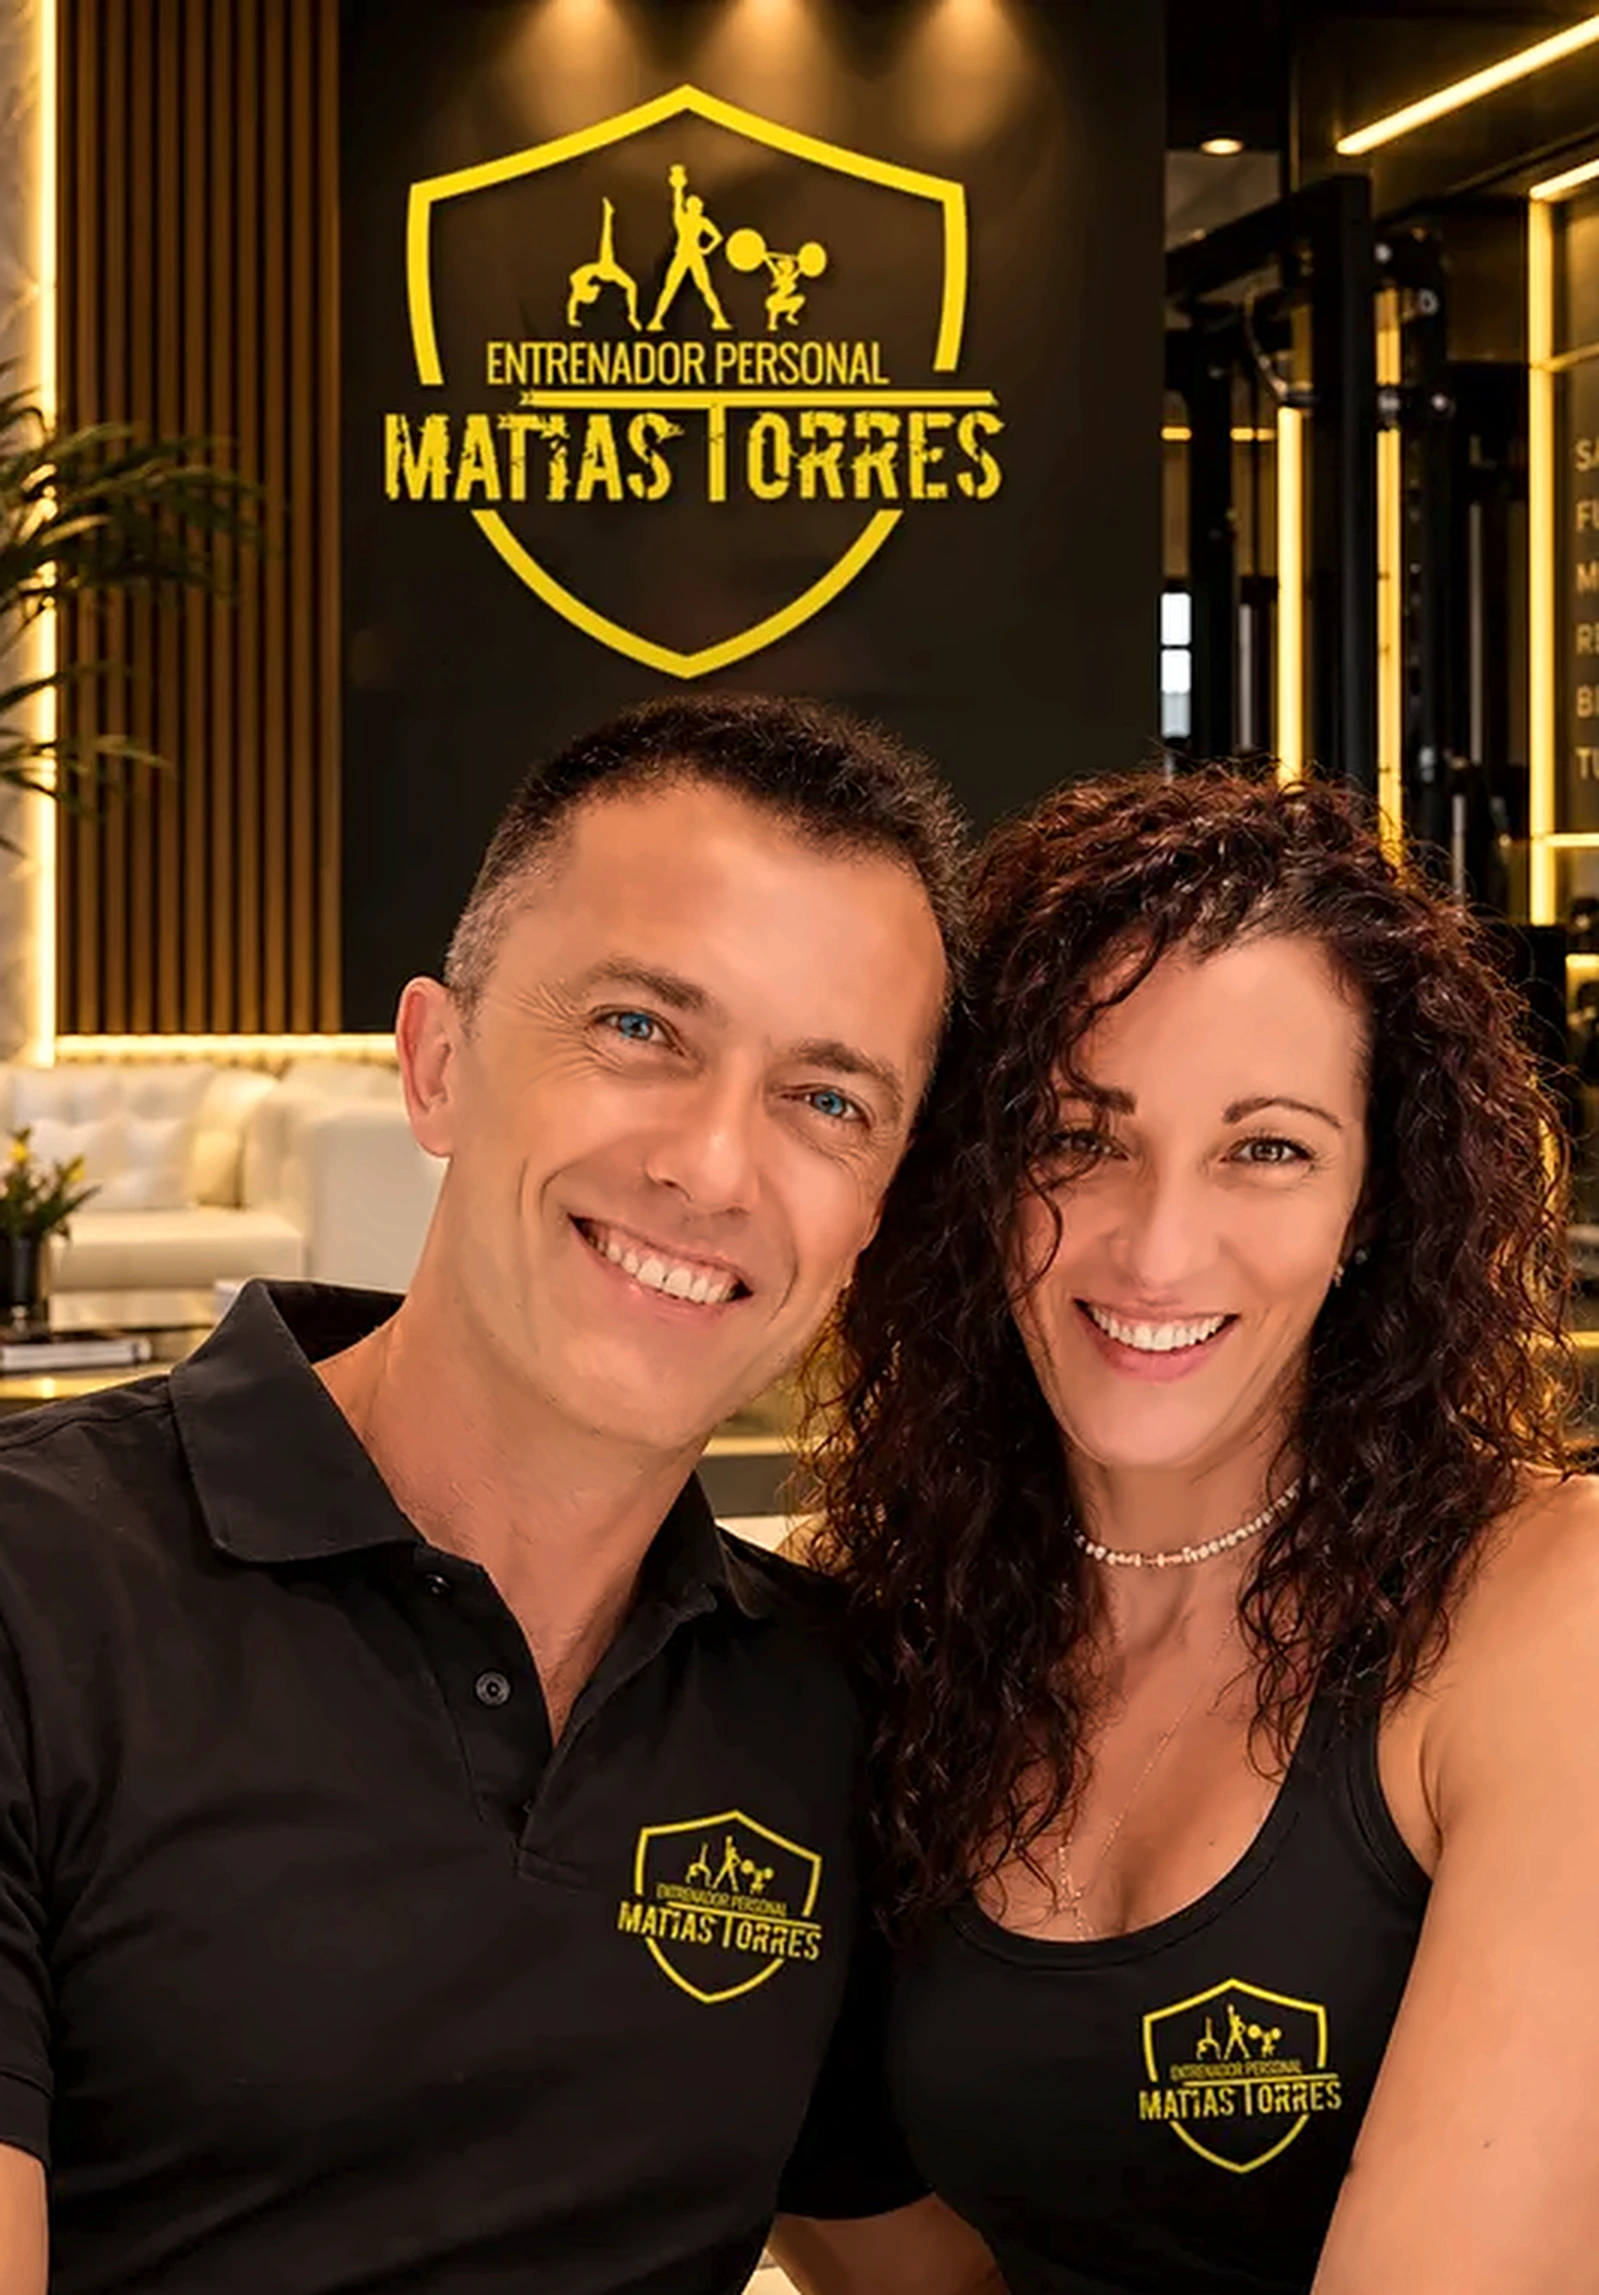
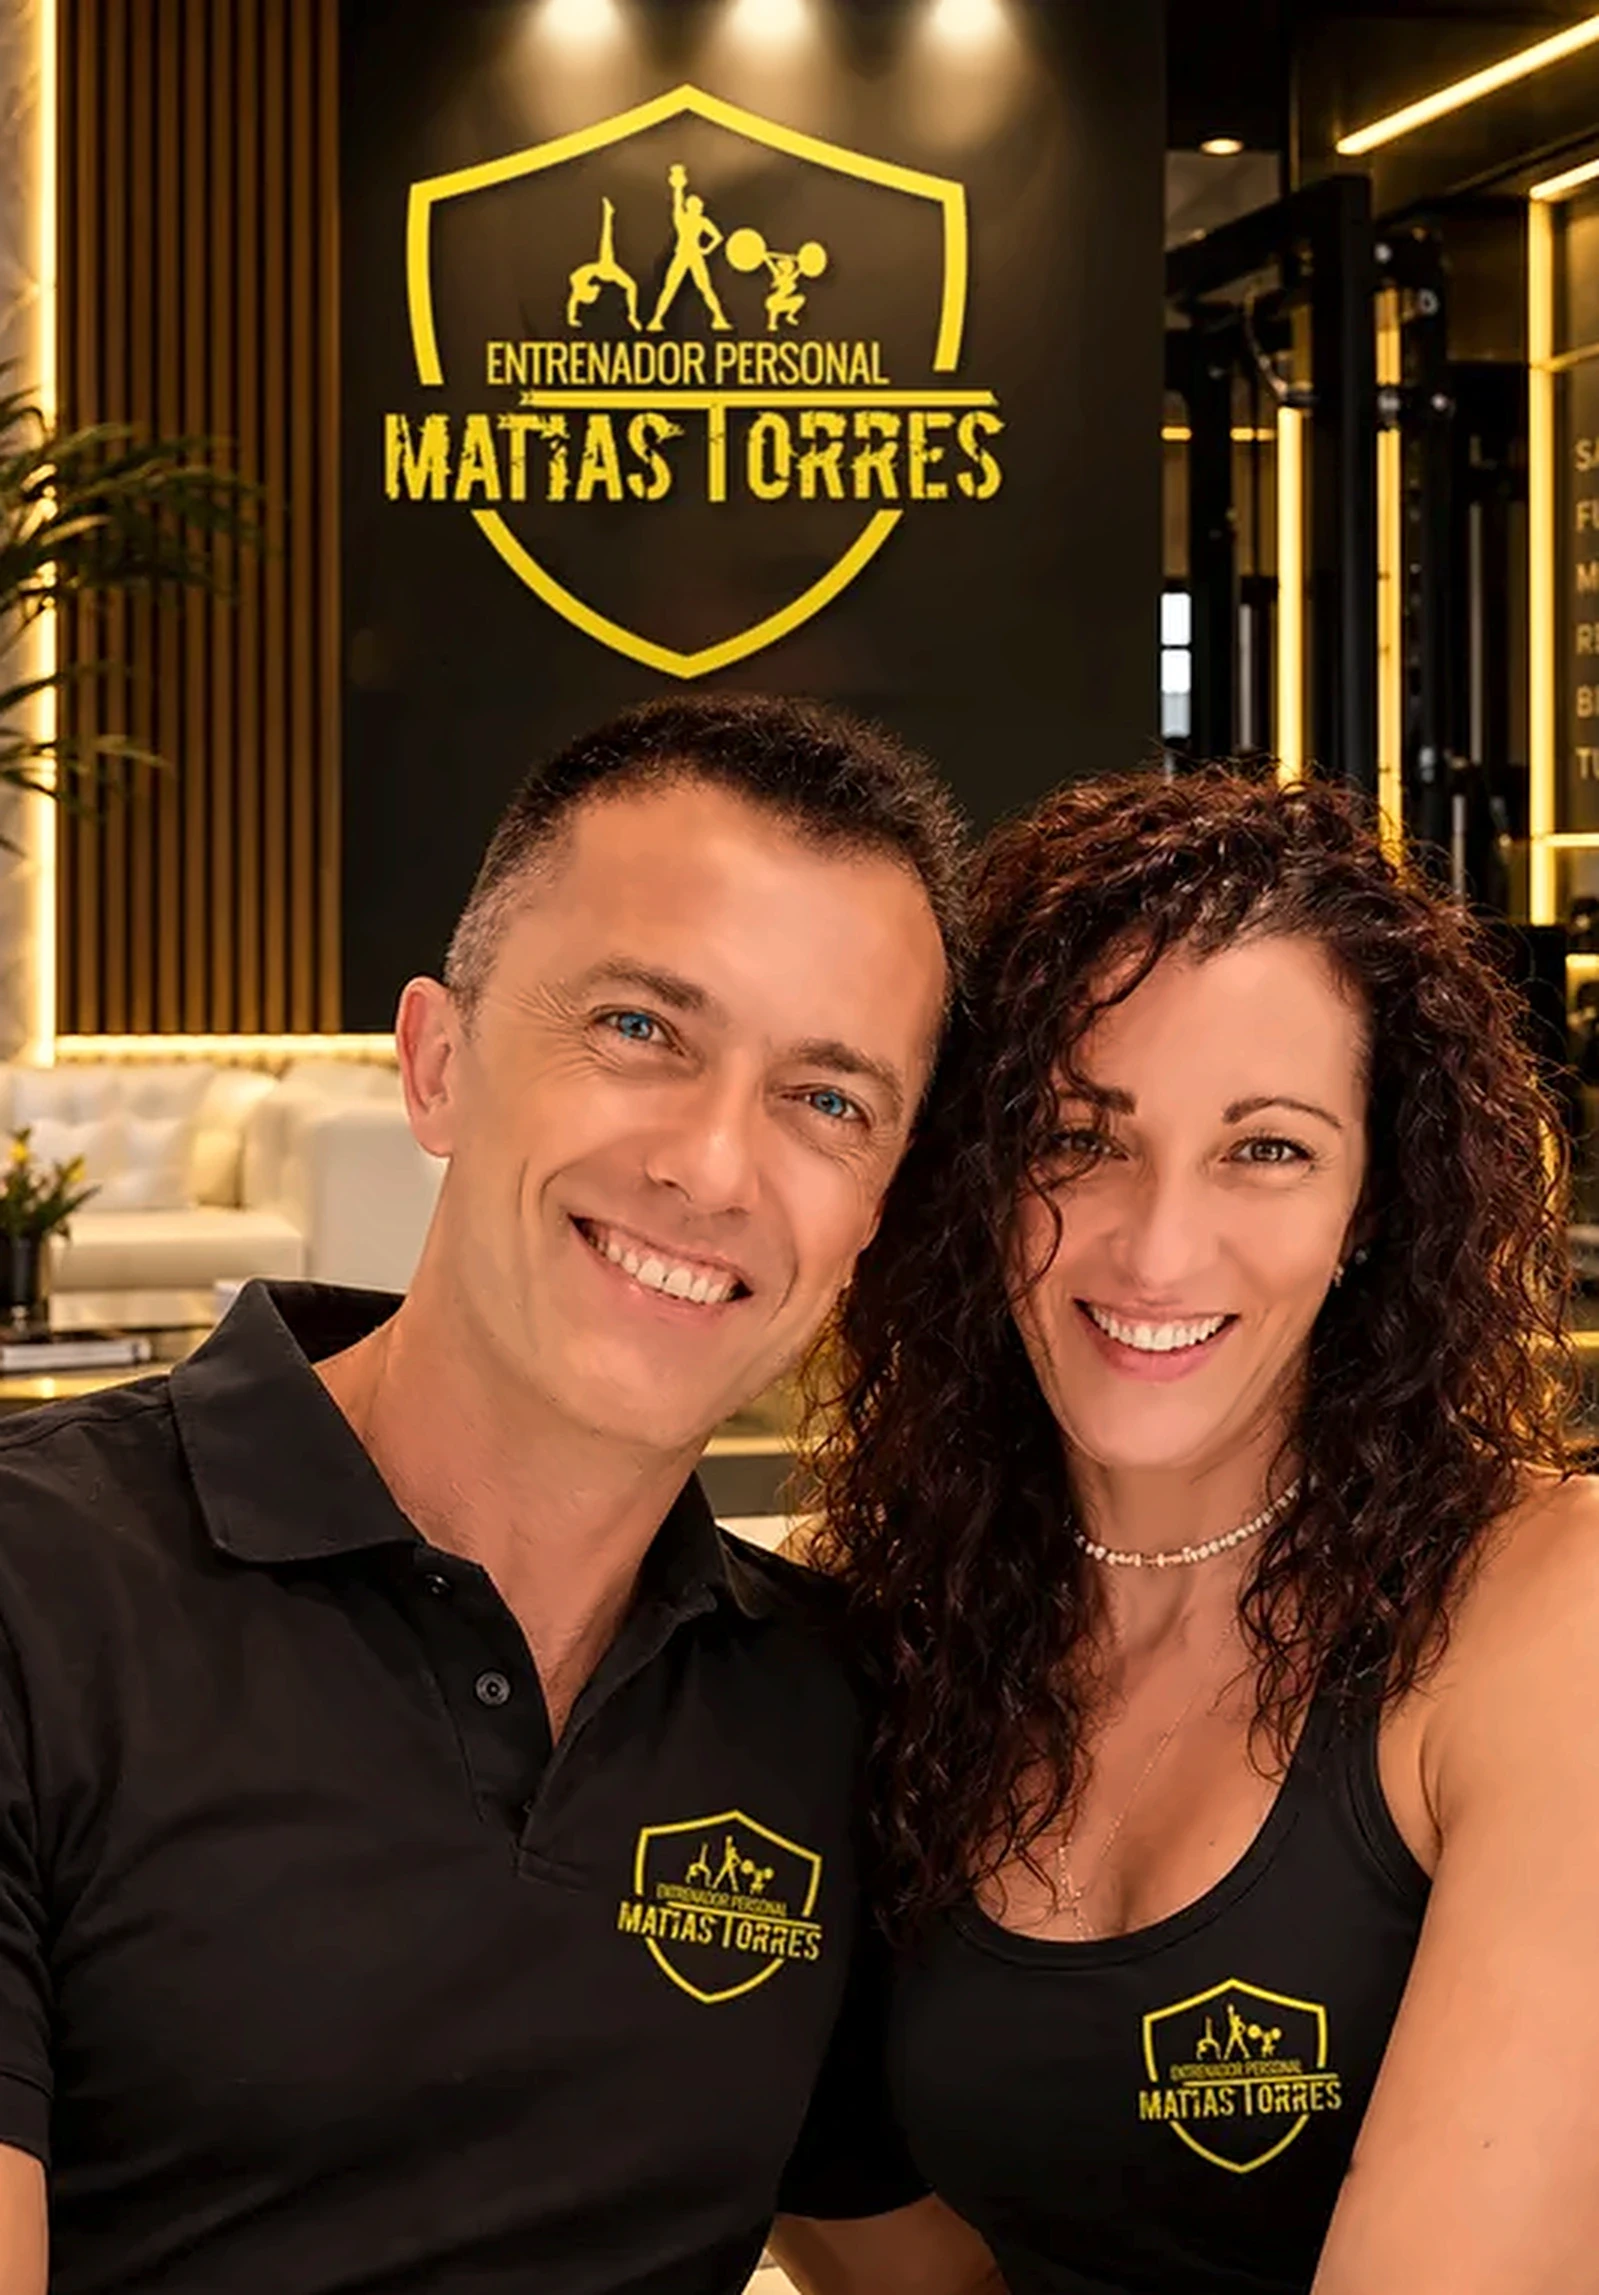
Foto Matías y Silvia: corte a mitad del hombro, Silvia más visible y menos sombra, focos del escudo más luminosos
Claude-Session: https://claude.ai/code/session_01NkzjF1AwGu8vPrnnPT5pjp

Changed region(s): [[0.3064, 0.0, 0.6435, 0.1547]]

diff --git a/index.html b/index.html
@@ -1269,7 +1269,7 @@ html,body{overflow-x:clip}
   </div></section>
   <section class="dark-sec meet" id="matias"><div class="wrap">
     <figure class="meet-ph">
-      <img src="fotos/matias-silvia.webp?v=6" width="1599" height="2295" alt="Matías Torres y Silvia Lorenzo sonriendo en la sala del centro, bajo el escudo Matías Torres" loading="lazy">
+      <img src="fotos/matias-silvia.webp?v=7" width="1599" height="2295" alt="Matías Torres y Silvia Lorenzo sonriendo en la sala del centro, bajo el escudo Matías Torres" loading="lazy">
     </figure>
     <div class="meet-tx">
       <div class="eyebrow meet-eb">Conoce a tu entrenador</div>
@@ -3096,17 +3096,17 @@ window.addEventListener('load',eq);window.addEventListener('resize',eq);window.a
 #matias .meet-fin b,#matias .meet-wh{color:#fff;font-weight:600}
 #matias .thanks{margin:34px 0 26px}
 @media(min-width:901px){
-  #matias .wrap{max-width:none;padding:0;display:grid;grid-template-columns:47% 53%;gap:0;align-items:stretch}
+  #matias .wrap{max-width:none;padding:0;display:grid;grid-template-columns:53% 47%;gap:0;align-items:stretch}
   #matias .meet-ph{position:relative;margin:0;min-height:100%}
-  #matias .meet-ph img{position:absolute;inset:0;width:100%;height:100%;aspect-ratio:auto;object-fit:cover;object-position:50% 18%;
-    -webkit-mask-image:linear-gradient(90deg,#000 55%,rgba(0,0,0,.6) 78%,transparent 100%),linear-gradient(0deg,transparent 0,#000 16%,#000 90%,transparent 100%);
-    -webkit-mask-composite:source-in;mask-image:linear-gradient(90deg,#000 55%,rgba(0,0,0,.6) 78%,transparent 100%),linear-gradient(0deg,transparent 0,#000 16%,#000 90%,transparent 100%);mask-composite:intersect}
-  #matias .meet-tx{max-width:760px;padding:clamp(96px,12vh,140px) clamp(48px,6vw,110px) clamp(96px,12vh,140px) clamp(24px,3vw,48px)}
+  #matias .meet-ph img{position:absolute;inset:0;width:100%;height:100%;aspect-ratio:auto;object-fit:cover;object-position:72% 8%;
+    -webkit-mask-image:linear-gradient(90deg,#000 82%,rgba(0,0,0,.55) 93%,transparent 100%),linear-gradient(0deg,transparent 0,#000 14%,#000 98%,transparent 100%);
+    -webkit-mask-composite:source-in;mask-image:linear-gradient(90deg,#000 82%,rgba(0,0,0,.55) 93%,transparent 100%),linear-gradient(0deg,transparent 0,#000 14%,#000 98%,transparent 100%);mask-composite:intersect}
+  #matias .meet-tx{max-width:760px;padding:clamp(96px,12vh,140px) clamp(28px,3.5vw,64px) clamp(96px,12vh,140px) clamp(24px,3vw,48px)}
 }
 @media(max-width:900px){
   #matias .wrap{display:block;padding:0}
   #matias .meet-ph{max-width:none;margin:0}
-  #matias .meet-ph img{width:100%;aspect-ratio:4/5;height:auto;object-fit:cover;object-position:50% 20%;
+  #matias .meet-ph img{width:100%;aspect-ratio:4/5;height:auto;object-fit:cover;object-position:60% 12%;
     -webkit-mask-image:linear-gradient(180deg,#000 70%,transparent 100%);mask-image:linear-gradient(180deg,#000 70%,transparent 100%)}
   #matias .meet-tx{position:relative;margin-top:-56px;padding:0 24px 64px}
 }
